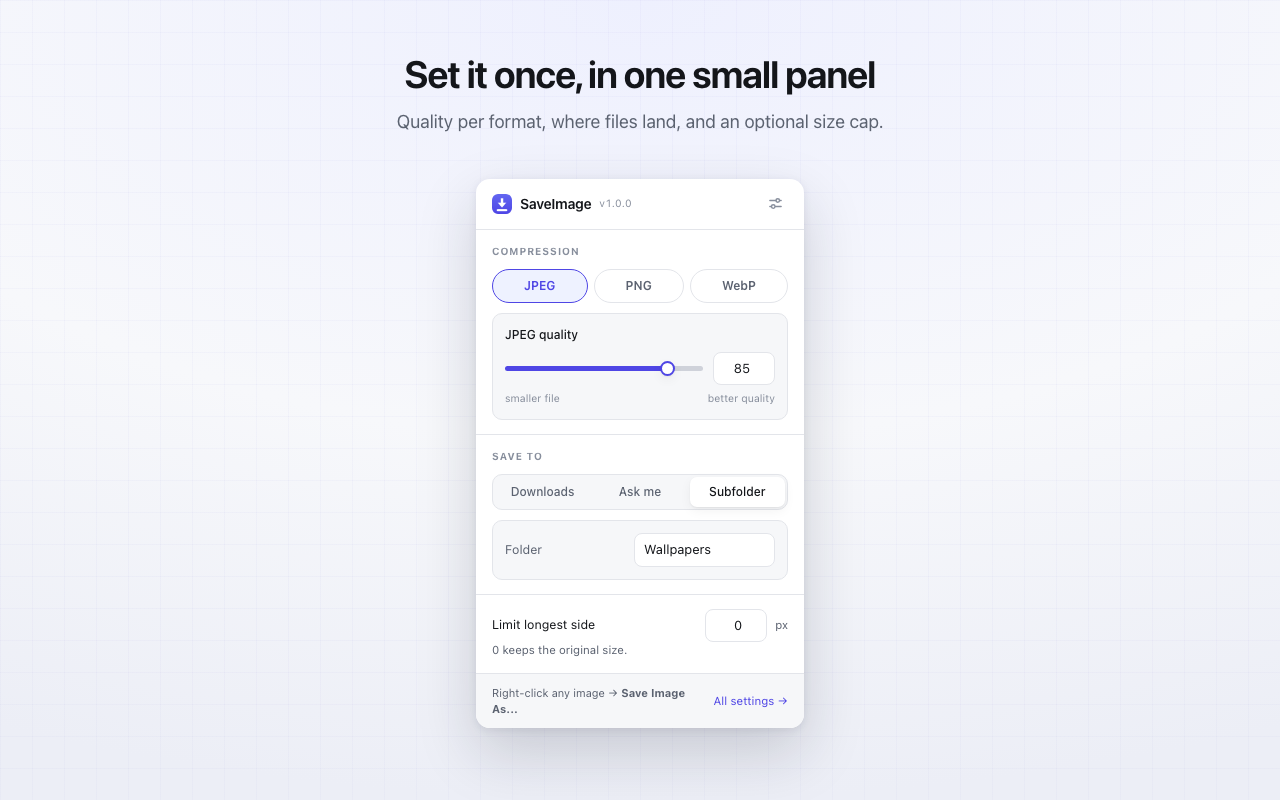
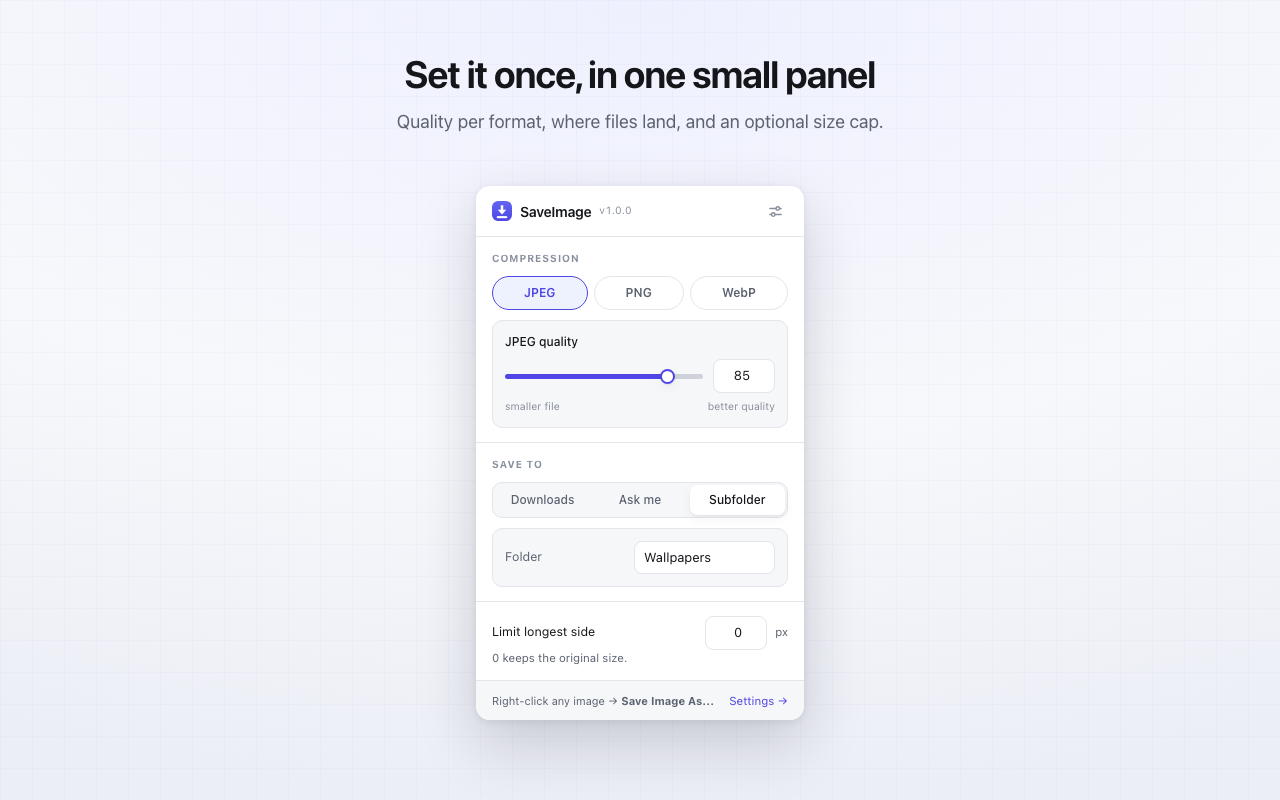
fix: keep the popup footer on a single line
"Save Image As..." is longer than the label it replaced, which pushed the
footer hint onto a second line and unbalanced the panel. Shortening the link
to "Settings →" brings it back within the 328px popup width.

Store screenshots re-rendered to match.

diff --git a/ui/popup.html b/ui/popup.html
@@ -90,7 +90,7 @@
 
     <footer class="foot">
       <p class="hint">Right-click any image → <strong>Save Image As...</strong></p>
-      <a href="#" id="openOptions2">All settings →</a>
+      <a href="#" id="openOptions2">Settings →</a>
     </footer>
 
     <script src="popup.js" type="module"></script>
